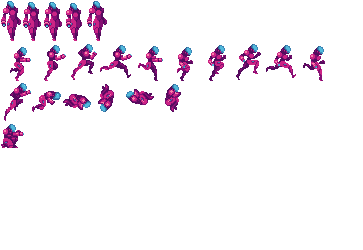
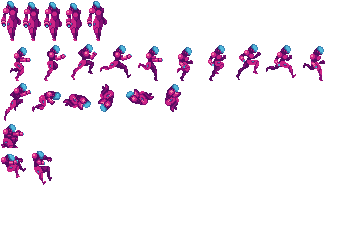
Added new animation, added new collider, modified DUCK_STATE
New animation; dead animation
New collider: dead collider

Changed region(s): [[0.0, 0.588, 0.1515, 0.728]]

diff --git a/Dev_class5_handout/Motor2D/j1Player.cpp b/Dev_class5_handout/Motor2D/j1Player.cpp
@@ -59,6 +59,7 @@ bool j1Player::Start()
 			jump_anim = LoadAnimations("jump");
 			run_anim = LoadAnimations("run");
 			duckAnim = LoadAnimations("duck");
+			deadAnim = LoadAnimations("dead");
 			p2SString coll_name(coll_node.attribute("type").as_string());
 			if (coll_name == "COLLIDER_PLAYER") {
 				coll_type = COLLIDER_PLAYER;
@@ -149,6 +150,10 @@ bool j1Player::Load(pugi::xml_node& player_node) {
 	{
 		state = DUCK_STATE;
 	}
+	else if (state_name == "DEAD_STATE")
+	{
+		state = DEAD_STATE;
+	}
 	
 	return true;
 }
@@ -183,6 +188,10 @@ bool j1Player::Save(pugi::xml_node& player_node) const
 	else if (state == 4)
 	{
 		state_name = "DUCK_STATE";
+	}
+	else if (state == 5)
+	{
+		state_name = "DEAD_STATE";
 	}
 	state_node.append_attribute("value") = state_name.GetString();
 
@@ -221,13 +230,13 @@ void j1Player::CheckState()
 	bool released_left = App->input->GetKey(SDL_SCANCODE_LEFT) == KEY_UP;
 	bool released_down = App->input->GetKey(SDL_SCANCODE_DOWN) == KEY_UP;
 	bool press_space = App->input->GetKey(SDL_SCANCODE_SPACE) == KEY_DOWN;
-
-	switch (state) 
+	
+	switch (state)
 	{
 	case IDLE_STATE:
 		if (pressed_right || pressed_left)
 		{
-			state=RUN_STATE;
+			state = RUN_STATE;
 		}
 
 		if (press_space)
@@ -241,7 +250,7 @@ void j1Player::CheckState()
 		break;
 
 	case RUN_STATE:
-		if (released_right || released_left) 
+		if (released_right || released_left)
 		{
 			state = IDLE_STATE;
 		}
@@ -251,14 +260,15 @@ void j1Player::CheckState()
 			state = JUMP_STATE;
 		}
 
-		if (pressed_down) 
+		if (pressed_down)
 		{
 			state = DUCK_STATE;
 		}
+		
 		break;
 
 	case JUMP_STATE:
-		if(jump_anim.Finished())
+		if (jump_anim.Finished())
 		{
 			state = AIR_STATE;
 			jump_anim.Reset();
@@ -274,10 +284,11 @@ void j1Player::CheckState()
 		break;
 
 	case DUCK_STATE:
-		if (released_down) 
+		if (released_down)
 		{
 			state = IDLE_STATE;
 		}
+	case DEAD_STATE:
 		break;
 	}
 }
@@ -306,7 +317,14 @@ void j1Player::PerformActions()
 		break;
 
 	case DUCK_STATE:
+		velocity.x = 0;
+		velocity.y = 0;
 		current_animation = &duckAnim;
+		break;
+
+	case DEAD_STATE:
+	
+		current_animation = &deadAnim;
 		break;
 	}
 	

diff --git a/Dev_class5_handout/Motor2D/j1Collision.cpp b/Dev_class5_handout/Motor2D/j1Collision.cpp
@@ -13,6 +13,7 @@ j1Collision::j1Collision()
 	matrix[COLLIDER_PLATFORM][COLLIDER_PLAYER] = true;
 	matrix[COLLIDER_LEAVE][COLLIDER_PLAYER] = true;
 	matrix[COLLIDER_WALL][COLLIDER_PLAYER] = true;
+	matrix[COLLIDER_DEAD][COLLIDER_PLAYER] = true;
 }
 
 // Destructor
@@ -123,6 +124,9 @@ void j1Collision::DebugDraw()
 			break;
 		case COLLIDER_WALL: //black
 			App->render->DrawQuad(colliders[i]->rect, 255, 0, 204, alpha);
+			break;
+		case COLLIDER_DEAD: //yellow
+			App->render->DrawQuad(colliders[i]->rect, 255, 255, 0, alpha);
 			break;
 		}
 	}

diff --git a/Dev_class5_handout/Motor2D/j1Player.h b/Dev_class5_handout/Motor2D/j1Player.h
@@ -16,6 +16,7 @@ enum Player_State {
 	JUMP_STATE,
 	AIR_STATE,
 	DUCK_STATE,
+	DEAD_STATE,
 };
 
 class j1Player : public j1Module
@@ -84,6 +85,7 @@ private:
 	p2Animation     run_anim;
 	p2Animation		jump_anim;
 	p2Animation     duckAnim;
+	p2Animation     deadAnim;
 
 	pugi::xml_document  player_file;
 

diff --git a/Dev_class5_handout/Motor2D/j1Map.cpp b/Dev_class5_handout/Motor2D/j1Map.cpp
@@ -207,6 +207,9 @@ bool j1Map::Load(const char* file_name)
 		else if (coll_layer == 3) {
 			coll_type = COLLIDER_LEAVE;
 		}
+		else if (coll_layer == 4) {
+			coll_type = COLLIDER_DEAD;
+		}
 
 		coll_layer++;
 

diff --git a/Dev_class5_handout/Motor2D/j1Collision.h b/Dev_class5_handout/Motor2D/j1Collision.h
@@ -14,6 +14,7 @@ enum COLLIDER_TYPE
 	COLLIDER_PLATFORM,
 	COLLIDER_WALL,
 	COLLIDER_LEAVE,
+	COLLIDER_DEAD,
 
 	COLLIDER_MAX
 };
